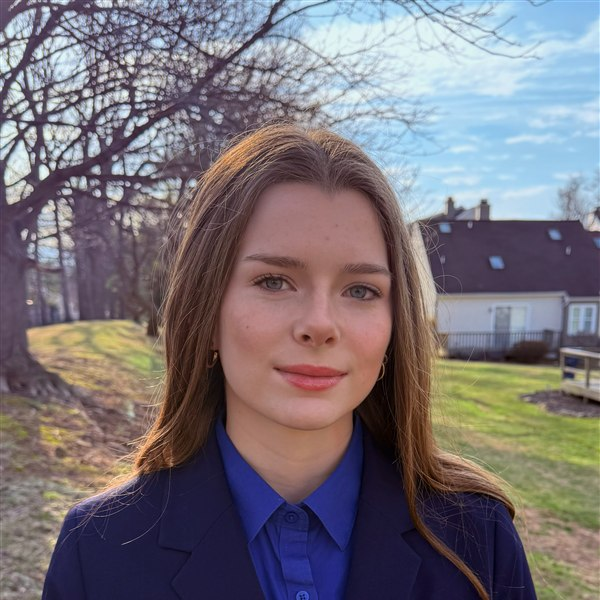
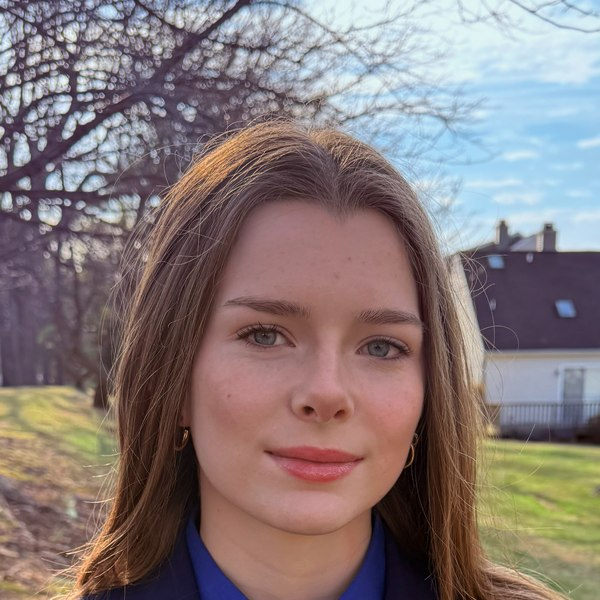
Link the master document and rules, retune headshots, rewrite README
- Point the featured Resources card at the chapter's TSA Master Document
  in Google Docs and drop the "Placeholder PDF" badge.
- Link Current Competition Rules to the Schoology materials folder.
- Re-crop the officer headshots: tighter framing on Ahaan, Neel, Advik,
  and Olivia; Purvi shifted right; Rishabh zoomed in past the FBLA
  backdrop lettering.
- Rewrite the README in a plainer voice and correct what had gone stale
  (officer photos and carousel are done, prep-guide PDF is no longer
  used). Adds a season-update checklist and notes the two dev-server
  traps that keep corrupting .next.

diff --git a/src/data/resources.ts b/src/data/resources.ts
@@ -12,23 +12,19 @@ export interface ResourceLink {
 
 export const quickLinks: ResourceLink[] = [
   { title: "Event Matrix Sheet", description: "Read, read, read! See every event in one place.", href: "#", comingSoon: true },
-  { title: "Current Competition Rules", description: "The rules and regulations for this year's events.", href: "#", comingSoon: true },
+  { title: "Current Competition Rules", description: "The rules and regulations for this year's events.", href: "https://schoology.dasd.org/group/1292257076/materials#/group/1292257076/materials?f=338016881" },
   { title: "Event Change Form", description: "Need to switch events? Fill this out.", href: "#", comingSoon: true },
   { title: "Individual and Team IDs", description: "Important for early submission.", href: "#", comingSoon: true },
   { title: "Pennsylvania TSA Website", description: "Our state TSA website.", href: "https://patsa.org" },
   { title: "National TSA Website", description: "The national TSA website.", href: "https://tsaweb.org" },
 ];
 
-// The all-in-one prep guide is a PLACEHOLDER PDF. Replace the file at
-// /public/docs/tsa-prep-guide-placeholder.pdf with the real guide. It should
-// cover how to read the national rules, how to plan for an event, and timelines
-// broken down by category. (Do not invent this content. Link the real doc.)
+// The all-in-one master document the chapter maintains in Google Docs.
 export const prepGuide: ResourceLink = {
-  title: "TSA Prep Guide",
+  title: "TSA Master Document",
   description:
     "One document that walks you through how to read the national rules, how to plan for your event, and the timelines for each category.",
-  href: "/docs/tsa-prep-guide-placeholder.pdf",
-  comingSoon: true,
+  href: "https://docs.google.com/document/d/12mVzRWncu57GdFDWyE2DUXy8j9P1WmOO6otHRT_FNQQ/edit?usp=sharing",
 };
 
 export const portfolioExamples: ResourceLink[] = [

diff --git a/src/app/resources/page.tsx b/src/app/resources/page.tsx
@@ -120,9 +120,6 @@ export default function ResourcesPage() {
                   <h2 className="text-xl font-bold text-primary">
                     {prepGuide.title}
                   </h2>
-                  <Badge className="border-border bg-muted text-muted-foreground">
-                    Placeholder PDF
-                  </Badge>
                 </div>
                 <p className="mt-2 text-sm text-muted-foreground">
                   {prepGuide.description}
@@ -137,7 +134,7 @@ export default function ResourcesPage() {
                 className="shrink-0"
               >
                 <Download className="size-4" aria-hidden />
-                Open Guide
+                Open Document
               </ButtonLink>
             </Card>
           </Reveal>

diff --git a/README.md b/README.md
@@ -1,108 +1,131 @@
 # Downingtown East TSA
 
-The official website for the **Downingtown East High School** chapter of the
-Technology Student Association (TSA). It helps members explore competitive
-events, find the event that fits them via a built-in quiz, and get prep support.
+The website for the Downingtown East High School chapter of the Technology
+Student Association. Members use it to browse competitive events, find an event
+that fits them with the built-in quiz, and get prep resources.
 
 ## Tech stack
 
-- **Next.js 15** (App Router) with **React 19**
-- **TypeScript** (strict mode)
-- **Tailwind CSS v4** — design tokens defined in `src/app/globals.css`
-- **lucide-react** for icons
-- **Barlow / Barlow Condensed** self-hosted via `next/font/local` (no runtime
-  dependency on Google Fonts)
-- Single light theme by design ("Competition Bold": navy + scarlet)
-- Path alias `@/*` → `src/*`
+- Next.js 15 (App Router) with React 19
+- TypeScript in strict mode
+- Tailwind CSS v4, with design tokens defined in `src/app/globals.css`
+- lucide-react for icons
+- Barlow and Barlow Condensed, self-hosted through `next/font/local` so builds
+  never depend on Google Fonts being reachable
+- One light theme (navy and scarlet), no dark mode
+- Path alias `@/*` points at `src/*`
 
 ## Running locally
 
 ```bash
 npm install      # install dependencies
-npm run dev      # start the dev server at http://localhost:3000
-npm run build    # production build (must pass cleanly: TS strict + ESLint)
+npm run dev      # dev server at http://localhost:3000
+npm run build    # production build (TS strict + ESLint must pass)
 npm run start    # serve the production build
 ```
 
-> Do not run `npm run build` while `npm run dev` is running — they share the
-> `.next/` directory and will corrupt each other's cache. Stop the dev server
-> first.
+Two things that will waste your afternoon if you hit them:
+
+1. Don't run `npm run build` while `npm run dev` is running. They share the
+   `.next/` folder, and the build wipes the chunks the dev server is serving.
+   The page then loads with no CSS, or throws `ChunkLoadError`. Stop the dev
+   server first.
+2. Don't leave two dev servers running. The second one silently starts on port
+   3001 while your browser sits on the stale 3000. If the site suddenly renders
+   unstyled, kill everything on those ports, delete `.next/`, and start one
+   server.
 
 ## Project structure
 
 ```
 src/
-  app/            # App Router routes, layout, global CSS, fonts
-  components/     # Reusable UI + interactive client components
-  data/           # All site content (edit here, never hardcode in pages)
-  lib/            # Small helpers (e.g. cn)
-public/           # Static assets (photos, logo, docs)
+  app/            # routes, layout, global CSS, fonts
+  components/     # reusable UI and interactive client components
+  data/           # all site content (edit here, don't hardcode in pages)
+  lib/            # small helpers such as cn
+public/           # static assets (photos, logo, docs)
 ```
 
 ### Routes
 
 | Route | Page |
 | --- | --- |
-| `/` | Home — hero, about, event categories, season roadmap, Wall of Fame, FAQ |
+| `/` | Home: hero, about, event categories, season roadmap, Wall of Fame, FAQ |
 | `/events` | Event browser with search and category/participation filters |
-| `/events/[id]` | Individual event detail pages (generated from the events data) |
-| `/quiz` | Native "Find My Event" quiz |
-| `/resources` | Event Support — rules, prep guides, and portfolio examples |
+| `/events/[id]` | One page per event, generated from the events data |
+| `/quiz` | The "Find My Event" quiz |
+| `/resources` | Event support: rules, the master document, portfolio examples |
 | `/team` | Officers and committees |
 
-`robots.ts` and `sitemap.ts` generate `robots.txt` / `sitemap.xml`;
+`robots.ts` and `sitemap.ts` generate `robots.txt` and `sitemap.xml`.
 `not-found.tsx` is the custom 404.
 
 ## Editing content
 
-All site content lives in `src/data/*`. Edit these files rather than hardcoding
-content in pages.
+Site content lives in `src/data/`. Edit those files instead of putting content
+directly in pages.
 
 | File | Controls |
 | --- | --- |
-| `src/data/site.ts` | Chapter name, tagline, description, canonical `url`, social links, and primary navigation. |
-| `src/data/events.ts` | Competitive events catalog and categories; powers `/events` and the quiz. `id` must stay unique and kebab-case. |
-| `src/data/quiz.ts` | "Find My Event" quiz — questions, per-event trait vectors, and matching logic. |
-| `src/data/officers.ts` | Officer roster and committees shown on the Team page. |
-| `src/data/resources.ts` | Event Support links, the prep-guide reference, and portfolio examples. Set `comingSoon: true` to render a link as not-ready. |
-| `src/data/faq.ts` | Homepage FAQ entries. |
-| `src/data/calendar.ts` | Upcoming dates; the homepage countdown targets the next competition (set `date: ""` for none). |
+| `src/data/site.ts` | Chapter name, tagline, description, canonical `url`, social links, primary nav |
+| `src/data/events.ts` | Event catalog and categories. Powers `/events` and the quiz. Each `id` must be unique and kebab-case |
+| `src/data/themes.ts` | Annual event themes and design problems, keyed by event id |
+| `src/data/quiz.ts` | Quiz questions, per-event trait vectors, and the matching logic |
+| `src/data/officers.ts` | Officer roster and committees on the Team page |
+| `src/data/resources.ts` | Event support links, the master document, portfolio examples. Set `comingSoon: true` to render a link as not ready |
+| `src/data/faq.ts` | Homepage FAQ entries |
+| `src/data/calendar.ts` | Conference dates. The homepage countdown targets the next one (use `date: ""` for none) |
 
-## Assets and remaining placeholders
+If you add or remove an event, update `events.ts`, `quiz.ts`, and `themes.ts`
+together, and add a matching photo in `public/events/`. The event id ties all
+four together.
 
-Static assets live under `public/`:
+### Updating for a new season
 
-- `public/events/` — per-event photos (see `CREDITS.md` for attribution)
-- `public/photos/` — hero carousel and Wall of Fame photos
-- `public/docs/` — the prep-guide PDF
-- `public/tsa-logo.png` — chapter logo
+TSA posts new event lists and themes in the fall. When they do:
 
-Before launch, replace these placeholders:
+1. Check the national list at <https://tsaweb.org/competitions/high-school> and
+   the PA list at <https://patsa.org/competitions/highschool/>. Add new events,
+   drop retired ones.
+2. Copy the new themes from <https://tsaweb.org/competitions/themes-and-problems>
+   into `themes.ts` and bump `THEME_SEASON`. That page paginates, so walk all of
+   `?hspage=1` through `?hspage=4`. An event with an empty string shows a "not
+   announced yet" note instead of a theme.
+3. PA-only events come from the rulebook linked at
+   <https://www.patsa.org/competitions/paonly/>.
+4. Update conference dates in `calendar.ts`.
 
-- **Site URL** — set the real domain in `src/data/site.ts` (`url`) so canonical
-  URLs, the sitemap, and robots.txt are correct (currently `deasttsa.example.com`).
-- **Officer photos and bios** — `src/data/officers.ts`. Names and roles are real;
-  photos and bios are optional placeholders (empty `photo` renders an avatar
-  placeholder).
-- **Hero carousel** — slides 3–4 in `src/app/page.tsx` are empty and render a
-  "coming soon" panel until real photos are added.
-- **Prep guide** — replace `public/docs/tsa-prep-guide-placeholder.pdf` (keep the
-  path, or update the link in `src/data/resources.ts`).
-- **Resource links** — any entry marked `comingSoon` or pointing at `#` in
-  `src/data/resources.ts`.
+## Assets
+
+Static files live under `public/`:
+
+- `public/events/` has one photo per event. `CREDITS.md` there records the
+  Creative Commons attribution for each one
+- `public/photos/` has the hero carousel and Wall of Fame photos
+- `public/photos/officers/` has the officer headshots, cropped square
+- `public/tsa-logo.png` is the chapter logo
+
+## Still to do before launch
+
+- Set the real domain in `src/data/site.ts`. It's still `deasttsa.example.com`,
+  so canonical URLs, the sitemap, and robots.txt all point at nothing.
+- Fill in the resource links still marked `comingSoon` in `resources.ts`: the
+  event matrix sheet, the event change form, and the individual and team IDs.
+- `public/docs/tsa-prep-guide-placeholder.pdf` is left over from before the
+  master document was linked, and nothing references it. Delete it or replace
+  it with something real.
 
 ## Privacy
 
-**No student personal emails anywhere on the site.** Visitors reach the chapter
-through its social media channels (Facebook, Instagram, YouTube), configured in
+No student personal emails anywhere on the site. Visitors reach the chapter
+through its social accounts (Facebook, Instagram, YouTube), which are set in
 `site.socials`. There is no contact form.
 
 ## Deploying to Vercel
 
-1. Push this repository to GitHub.
-2. In [Vercel](https://vercel.com), click **New Project** and import the repo.
-3. Vercel auto-detects Next.js — no extra config is needed. Keep the default
-   build command (`next build`) and output settings.
+1. Push the repo to GitHub.
+2. In [Vercel](https://vercel.com), pick New Project and import it.
+3. Vercel detects Next.js on its own. Keep the default build command
+   (`next build`) and output settings.
 4. Set the production domain, then update `url` in `src/data/site.ts` to match.
-5. Deploy. Pushes to `main` trigger production deploys; other branches get
-   preview deployments.
+5. Deploy. Pushes to `main` go to production, other branches get preview builds.
